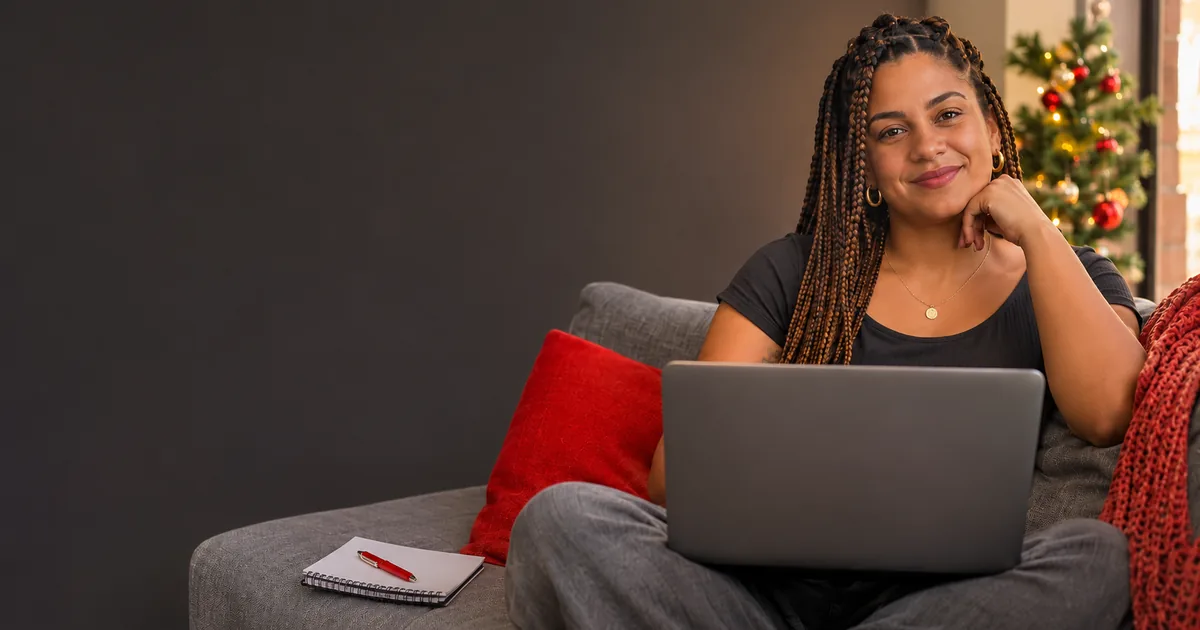
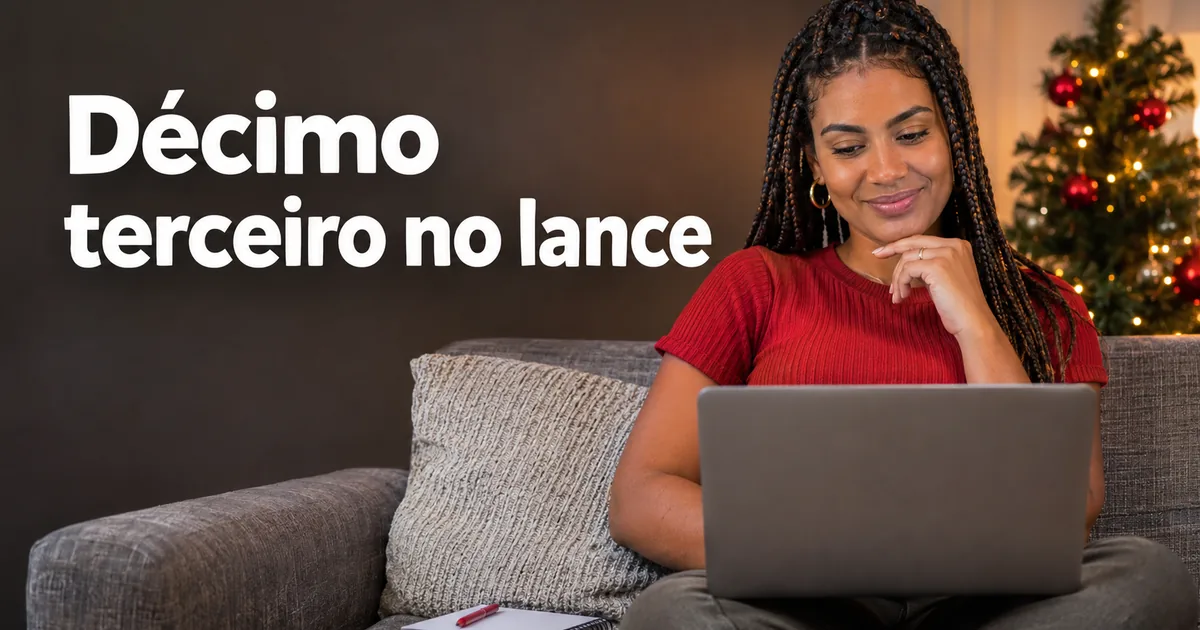
Blog: capa do 13º refeita com texto (nova regra: capa sempre com título)
Claude-Session: https://claude.ai/code/session_01V6q5ywvWkrinvKnFvgBg8H

diff --git a/src/content/blog/13-salario-para-dar-lance-no-consorcio.md b/src/content/blog/13-salario-para-dar-lance-no-consorcio.md
@@ -6,7 +6,7 @@ date: 2026-11-11
 category: lance
 keyword: "13º salário para dar lance"
 cover: "/img/blog/13-salario-para-dar-lance-no-consorcio-capa.webp"
-cover_alt: "Jovem sentada no sofá com notebook no colo e árvore de Natal ao fundo, planejando o lance do consórcio"
+cover_alt: "Jovem sentada no sofá com notebook no colo e árvore de Natal ao fundo, com o título Décimo terceiro no lance"
 draft: true
 faq:
   - q: "Posso usar o 13º salário para dar lance no consórcio?"
